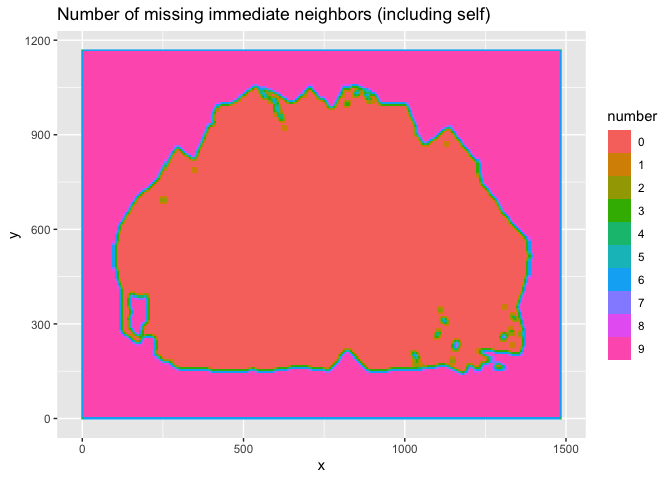
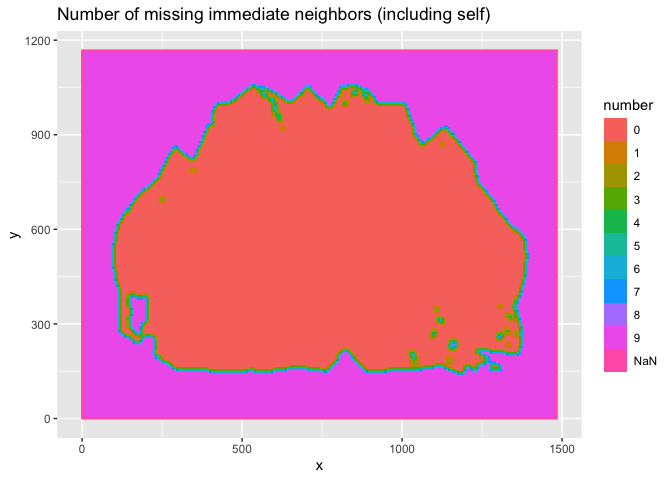
Update readme

diff --git a/README.md b/README.md
@@ -7,7 +7,7 @@
 
 [![Lifecycle:
 experimental](https://img.shields.io/badge/lifecycle-experimental-orange.svg)](https://lifecycle.r-lib.org/articles/stages.html#experimental)
-[![Last-changedate](https://img.shields.io/badge/last%20change-2023--09--28-yellowgreen.svg)](https://github.com/YuhangTom/wire/commits/main)
+[![Last-changedate](https://img.shields.io/badge/last%20change-2023--10--03-yellowgreen.svg)](https://github.com/YuhangTom/wire/commits/main)
 [![Codecov test
 coverage](https://codecov.io/gh/YuhangTom/wire/branch/main/graph/badge.svg)](https://app.codecov.io/gh/YuhangTom/wire?branch=main)
 [![R-CMD-check](https://github.com/YuhangTom/wire/actions/workflows/R-CMD-check.yaml/badge.svg)](https://github.com/YuhangTom/wire/actions/workflows/R-CMD-check.yaml)
@@ -65,7 +65,7 @@ insidepoly_df <- x3p_insidepoly_df(x3p, mask_col = "#FF0000", concavity = 1.5, b
 
 <img src="man/figures/README-insidepoly-1.png" width="100%" /><img src="man/figures/README-insidepoly-2.png" width="100%" /><img src="man/figures/README-insidepoly-3.png" width="100%" />
 
-    #> Warning: Removed 19502 rows containing non-finite values (`stat_boxplot()`).
+    #> Warning: Removed 19239 rows containing non-finite values (`stat_boxplot()`).
 
 <img src="man/figures/README-insidepoly-4.png" width="100%" />
 
@@ -75,10 +75,10 @@ insidepoly_df %>%
 #> 'data.frame':    42042 obs. of  6 variables:
 #>  $ x                  : num  0 6.45 12.9 19.35 25.8 ...
 #>  $ y                  : num  1167 1167 1167 1167 1167 ...
-#>  $ value              : num  NaN NaN NaN NaN NaN NaN NaN NaN NaN NaN ...
+#>  $ value              : num  NA NA NA NA NA NA NA NA NA NA ...
 #>  $ mask               : chr  "#FFFFFF" "#FFFFFF" "#FFFFFF" "#FFFFFF" ...
-#>  $ n_neighbor_val_miss: Factor w/ 10 levels "0","1","2","3",..: 5 7 7 7 7 7 7 7 7 7 ...
-#>  $ sd_not_miss        : num  NA NA NA NA NA NA NA NA NA NA ...
+#>  $ n_neighbor_val_miss: Factor w/ 11 levels "0","1","2","3",..: 11 11 11 11 11 11 11 11 11 11 ...
+#>  $ sd_not_miss        : num  NaN NaN NaN NaN NaN NaN NaN NaN NaN NaN ...
 #>  - attr(*, "header.info")=List of 4
 #>   ..$ sizeX     : int 231
 #>   ..$ sizeY     : int 182
